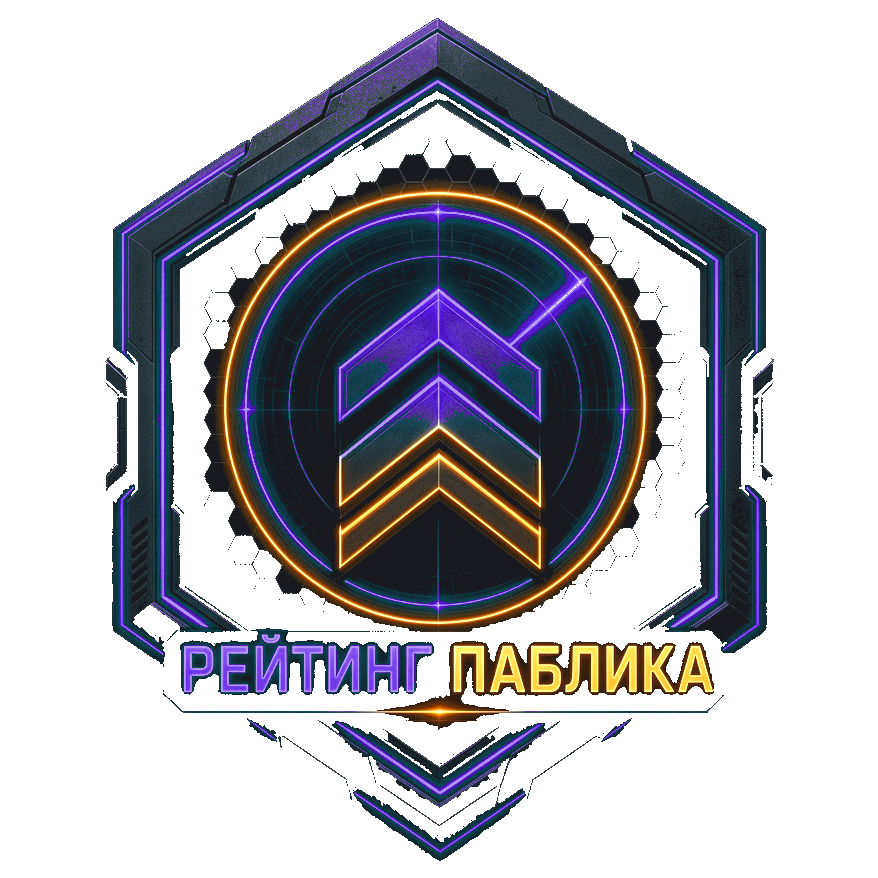
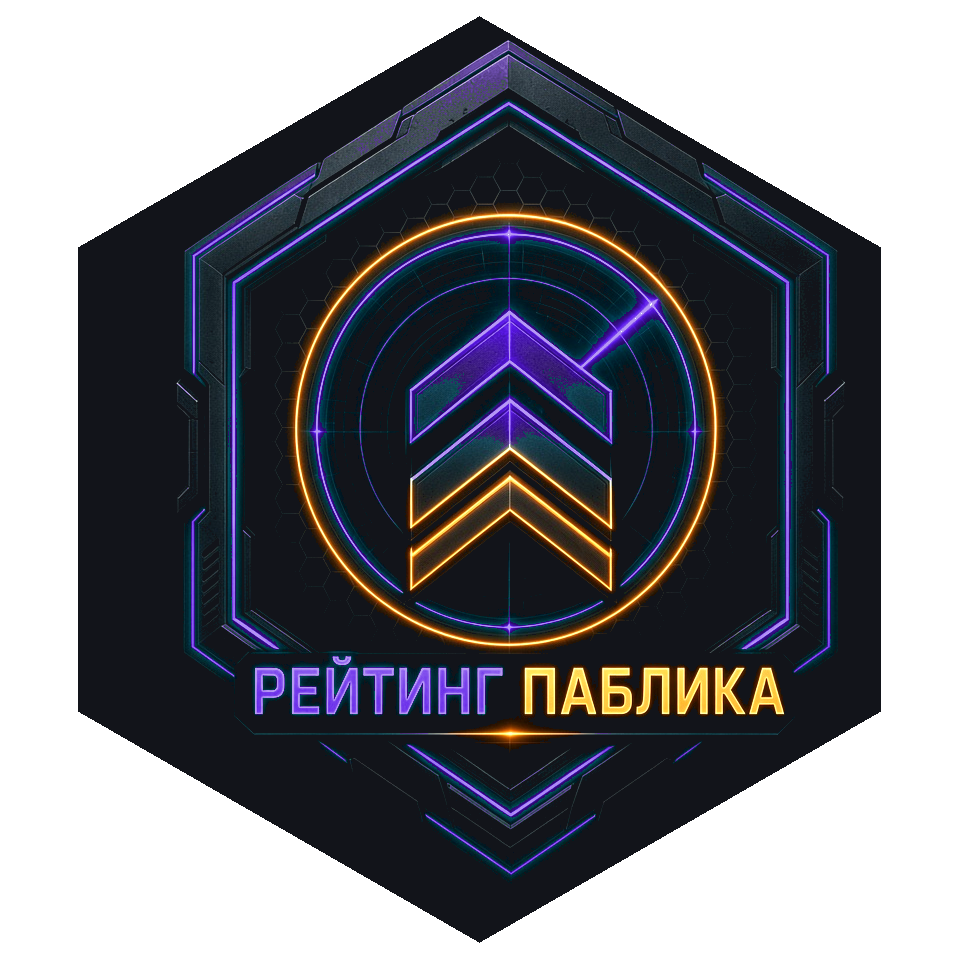
Restore solid charcoal inside hub shields and size the grid to the CW zone.
Rebuild tile masks with a hex keep-fill so interiors stay opaque, clear only outside, and grow the centered 3x3 to the annotated footprint.

diff --git a/src/app/globals.css b/src/app/globals.css
@@ -22373,8 +22373,8 @@ body:has(.not-found-page) .site-footer-note {
 .home-layout.is-hub {
   grid-template-columns: minmax(0, 1fr);
   grid-template-areas: "hub";
-  /* поля по бокам — место под фон */
-  padding: 10px 96px 12px;
+  /* справа запас под фон; слева место под КВ-анонсы */
+  padding: 8px 72px 10px 12px;
   column-gap: 0;
 }
 
@@ -22382,13 +22382,16 @@ body:has(.not-found-page) .site-footer-note {
   grid-area: hub;
   position: relative;
   display: grid;
+  /* сетка по центру зоны справа от КВ (как красная рамка) */
   place-items: center;
   width: 100%;
   height: 100%;
   min-height: 0;
+  padding-left: 226px;
+  box-sizing: border-box;
 }
 
-/* CW rail: compact top-left corner (over centered grid) */
+/* CW rail: угол слева, вне блока разделов */
 .home-hub-cw {
   position: absolute;
   top: 0;
@@ -22508,18 +22511,19 @@ body:has(.not-found-page) .site-footer-note {
   background: rgba(110, 35, 55, 0.55);
 }
 
-/* Сетка по центру главной; по бокам остаётся фон */
+/* Сетка занимает высоту зоны (как красная рамка), квадрат по центру */
 .home-hub-grid {
   position: relative;
   z-index: 2;
   display: grid;
   grid-template-columns: repeat(3, minmax(0, 1fr));
   grid-template-rows: repeat(3, minmax(0, 1fr));
-  gap: 10px;
-  width: min(78vh, 760px);
-  height: min(78vh, 760px);
-  max-width: calc(100% - 8px);
-  max-height: calc(100% - 8px);
+  gap: 8px;
+  height: calc(100% - 4px);
+  width: auto;
+  aspect-ratio: 1 / 1;
+  max-width: 100%;
+  max-height: 100%;
   min-width: 0;
   min-height: 0;
 }

diff --git a/src/components/HomeHub.tsx b/src/components/HomeHub.tsx
@@ -52,7 +52,7 @@ export function HomeHub({ showCw, cwCards }: Props) {
             <span
               className="home-hub-tile-art"
               aria-hidden="true"
-              style={{ backgroundImage: `url(${tile.image}?v=plate6)` }}
+              style={{ backgroundImage: `url(${tile.image}?v=plate7)` }}
             />
           </Link>
         ))}

diff --git a/docs/CHANGELOG.md b/docs/CHANGELOG.md
@@ -1,3 +1,9 @@
+## v. 1.2.150 — 05.11.2026 · Хаб: чёрный внутри щита + размер сетки
+
+Внутри щита снова плотный уголь (как на рефе), снаружи прозрачно. Сетка занимает высоту зоны справа от КВ.
+
+---
+
 ## v. 1.2.149 — 05.11.2026 · Хаб: прозрачный щит + сетка по центру
 
 Снаружи щита прозрачно, внутри — чёрный. Рамка по квадрату эмблемы. Сетка разделов по центру, КВ-анонсы в углу.
